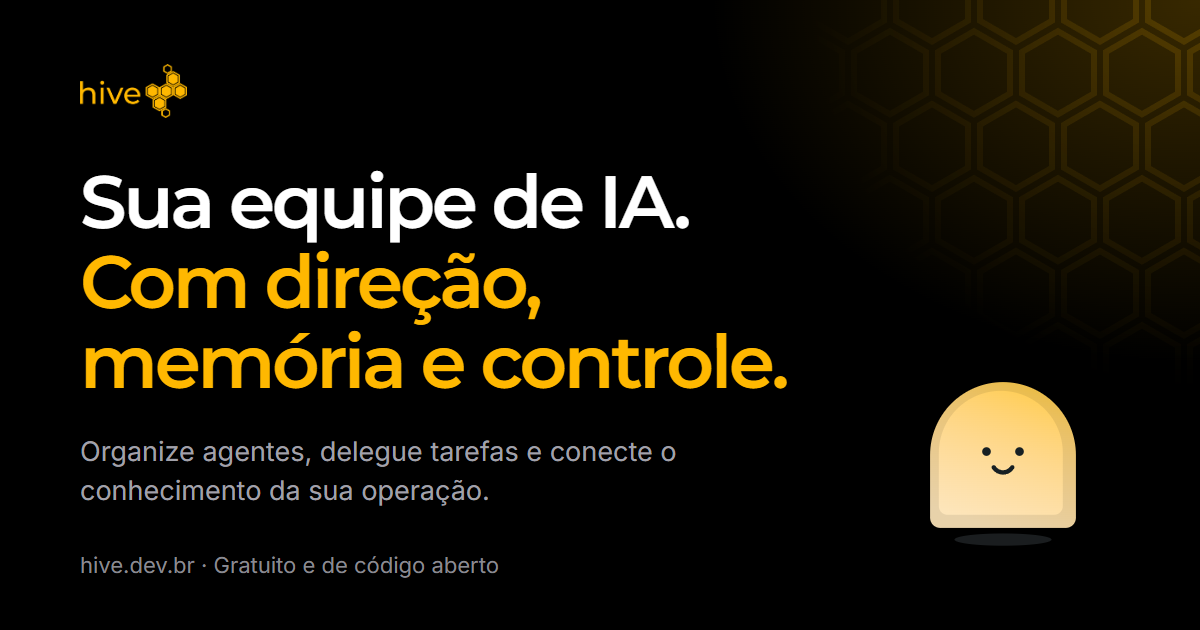
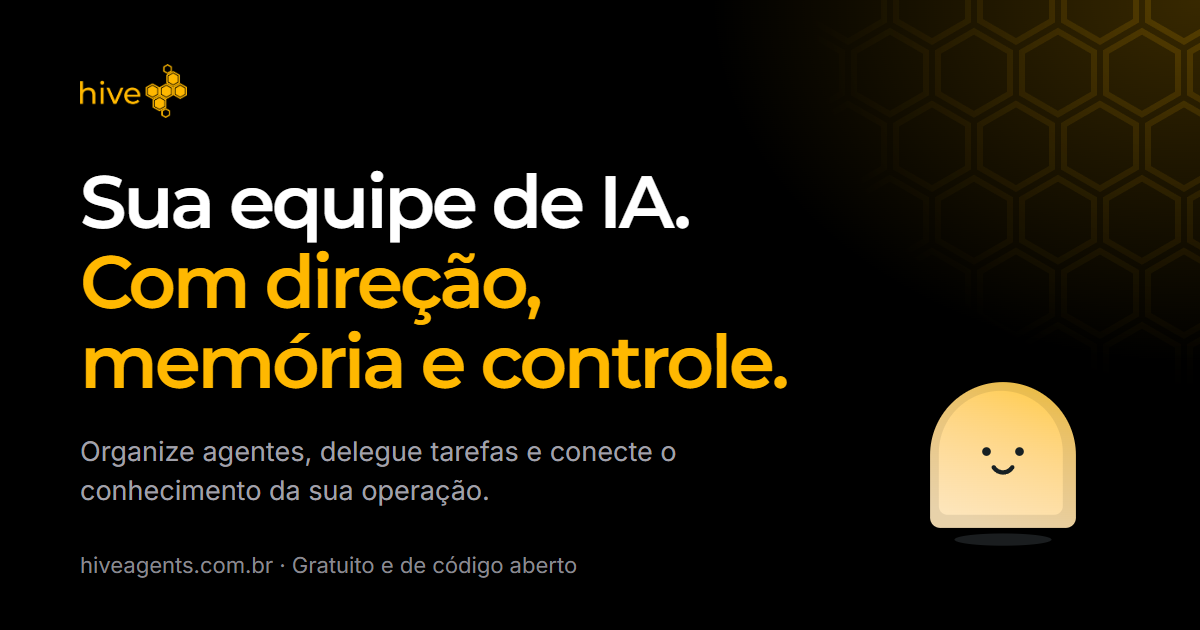
Ajuste botão whatsapp na navbar

Changed region(s): [[0.0925, 0.8746, 0.4933, 0.9349]]

diff --git a/components/whatsapp-button.tsx b/components/whatsapp-button.tsx
@@ -7,14 +7,17 @@ export const WHATSAPP_URL = "https://chat.whatsapp.com/LHrZ5vK090F1FmcyivB0dz";
  * Botão da comunidade no WhatsApp, para a barra de navegação.
  *
  * Em repouso é só o ícone, branco num círculo escuro (o branco precisa de um fundo para existir
- * no tema claro também). No hover ou no foco do teclado o círculo fica verde e abaixo dele
- * aparece "Entre na nossa comunidade", em branco como o ícone. O texto fica embaixo, e não
- * ao lado, para não cobrir os links da barra.
+ * no tema claro também). No hover ou no foco do teclado o botão cresce para a esquerda, na mesma
+ * linha do ícone, mostra "Entre na nossa comunidade" em branco e fica verde.
+ *
+ * Ele faz parte do fluxo da barra (não é sobreposto): a barra é uma grade de três colunas, e a
+ * coluna das ações cresce junto com o botão. Os links só se deslocam para a esquerda quando não
+ * há espaço sobrando, então nada fica coberto. Abaixo de `sm` ele não cresce: ali não há hover
+ * e a barra não tem espaço.
  *
  * O verde é `#0F8247`, um tom mais fechado que o #25D366 da marca: texto branco sobre #25D366
  * tem só 2:1 de contraste, e sobre este passa de 4,5:1. O nome acessível existe o tempo todo
- * (`aria-label`), então o leitor de tela e o toque no celular, que não têm hover, também
- * entendem o botão.
+ * (`aria-label`), então o leitor de tela e o toque no celular também entendem o botão.
  */
 export function WhatsAppButton({ className = "" }: { className?: string }) {
   return (
@@ -23,14 +26,16 @@ export function WhatsAppButton({ className = "" }: { className?: string }) {
       target="_blank"
       rel="noopener noreferrer"
       aria-label="Entre na nossa comunidade no WhatsApp (abre em uma nova aba)"
-      className={`group relative inline-flex size-11 shrink-0 items-center justify-center rounded-full bg-[#171717] text-white [box-shadow:inset_0_0_0_1px_rgb(255_255_255/0.16)] transition-[background-color,box-shadow] duration-200 hover:bg-[#0F8247] hover:[box-shadow:none] focus-visible:bg-[#0F8247] focus-visible:[box-shadow:none] motion-reduce:transition-none ${className}`}
+      className={`group inline-flex h-11 w-11 shrink-0 items-center justify-end overflow-hidden rounded-full bg-[#171717] text-white [box-shadow:inset_0_0_0_1px_rgb(255_255_255/0.16)] transition-[width,background-color,box-shadow] duration-300 ease-[var(--ease-out)] hover:bg-[#0F8247] hover:[box-shadow:none] focus-visible:bg-[#0F8247] focus-visible:[box-shadow:none] sm:hover:w-[244px] sm:focus-visible:w-[244px] motion-reduce:transition-none ${className}`}
     >
-      <BrandIcon name="whatsapp" className="size-[22px] text-white" />
       <span
         aria-hidden="true"
-        className="pointer-events-none absolute top-full right-0 z-10 mt-2 translate-y-1 rounded-full bg-[#0F8247] px-3.5 py-2 text-sm font-semibold whitespace-nowrap text-white opacity-0 shadow-[0_8px_24px_rgb(0_0_0/0.18)] transition-[opacity,transform] duration-200 ease-[var(--ease-out)] group-hover:translate-y-0 group-hover:opacity-100 group-focus-visible:translate-y-0 group-focus-visible:opacity-100 motion-reduce:transition-none"
+        className="hidden pr-1 pl-4 text-sm font-semibold whitespace-nowrap text-white opacity-0 transition-opacity duration-200 group-hover:opacity-100 group-focus-visible:opacity-100 sm:block motion-reduce:transition-none"
       >
         Entre na nossa comunidade
+      </span>
+      <span className="flex size-11 shrink-0 items-center justify-center">
+        <BrandIcon name="whatsapp" className="size-[22px] text-white" />
       </span>
     </a>
   );

diff --git a/tests/seo-legal.test.ts b/tests/seo-legal.test.ts
@@ -78,7 +78,7 @@ test("SEO: robots, sitemap e llms.txt existem e são coerentes", () => {
   assert.match(read("app/robots.ts"), /sitemap\.xml/);
   const llms = read("public/llms.txt");
   assert.match(llms, /^# Hive/);
-  for (const page of PAGES.filter((p) => p.path !== "/")) assert.ok(llms.includes(`https://hive.dev.br${page.path}`), `llms.txt não cita ${page.path}`);
+  for (const page of PAGES.filter((p) => p.path !== "/")) assert.ok(llms.includes(`https://hiveagents.com.br${page.path}`), `llms.txt não cita ${page.path}`);
 });
 
 // ------------------------------------------------------------------------------------- textos

diff --git a/lib/legal.ts b/lib/legal.ts
@@ -26,10 +26,10 @@ export const LEGAL = {
   /** Encarregado pelo tratamento de dados (art. 41 da LGPD). */
   encarregado: {
     nome: PENDENTE,
-    email: "contato@hive.dev.br",
+    email: "contato@hiveagents.com.br",
   },
   /** E-mail de contato geral, o mesmo que já aparece no site. */
-  email: "contato@hive.dev.br",
+  email: "contato@hiveagents.com.br",
   /** Comarca para disputas que não envolvam consumidor. */
   foro: PENDENTE,
   /** Provedor de hospedagem do site (operador que guarda os registros de acesso). */

diff --git a/app/api/lgpd/route.ts b/app/api/lgpd/route.ts
@@ -58,7 +58,7 @@ export async function POST(request: Request) {
     if (process.env.NODE_ENV === "production") {
       console.error("[lgpd] LGPD_WEBHOOK_URL não está definida: o pedido NÃO foi recebido.");
       return NextResponse.json(
-        { error: "O envio está indisponível agora. Escreva para contato@hive.dev.br, por favor." },
+        { error: "O envio está indisponível agora. Escreva para contato@hiveagents.com.br, por favor." },
         { status: 503 },
       );
     }

diff --git a/components/sections.tsx b/components/sections.tsx
@@ -13,8 +13,8 @@ export function Faq() {
             lead={
               <>
                 Não achou a sua? Escreva para{" "}
-                <a className="text-accent underline underline-offset-4" href="mailto:contato@hive.dev.br">
-                  contato@hive.dev.br
+                <a className="text-accent underline underline-offset-4" href="mailto:contato@hiveagents.com.br">
+                  contato@hiveagents.com.br
                 </a>
                 .
               </>

diff --git a/app/install/page.tsx b/app/install/page.tsx
@@ -549,7 +549,7 @@ pnpm dev`} />
                 </div>
                 <p className={body}>
                   Não achou o seu caso? <A href={`${REPO_URL}/issues`}>Abra uma issue</A> ou escreva para{" "}
-                  <A href="mailto:contato@hive.dev.br">contato@hive.dev.br</A>.
+                  <A href="mailto:contato@hiveagents.com.br">contato@hiveagents.com.br</A>.
                 </p>
               </section>
             </article>

diff --git a/lib/seo.ts b/lib/seo.ts
@@ -10,7 +10,7 @@ import { FAQ } from "./faq.ts";
 import { LEGAL } from "./legal.ts";
 
 /** Endereço público do site. É a base das URLs de Open Graph, do sitemap e do JSON-LD. */
-export const SITE_URL = "https://hive.dev.br";
+export const SITE_URL = "https://hiveagents.com.br";
 export const SITE_NAME = "Hive";
 export const REPO_URL = "https://github.com/gugow06/hive";
 

diff --git a/README.md b/README.md
@@ -419,8 +419,8 @@ Pillow (`pip install pillow`).
 
 ## Antes de publicar
 
-- `metadataBase` em `app/layout.tsx` está em `https://hive.dev.br` — troque pelo
-  domínio real; ele é a base das URLs de Open Graph.
-- O e-mail `contato@hive.dev.br` aparece no FAQ e nas páginas legais.
+- O domínio é `hiveagents.com.br`, definido em `SITE_URL` (`lib/seo.ts`). Ele é a base das
+  URLs de Open Graph, do sitemap e do JSON-LD. Se mudar, troque também `public/llms.txt`.
+- O e-mail `contato@hiveagents.com.br` aparece no FAQ e nas páginas legais.
 - Preencha `lib/legal.ts` e defina `LGPD_WEBHOOK_URL`.
 - `app/opengraph-image.png` é a imagem de compartilhamento (1200×630).

diff --git a/.agents/product-marketing.md b/.agents/product-marketing.md
@@ -84,7 +84,7 @@
 ## 10. Lacunas
 
 - [ ] Razão social, CNPJ, endereço e e-mail do encarregado (LGPD): `lib/legal.ts`.
-- [ ] Domínio definitivo (hoje `hive.dev.br` em `metadataBase`).
+- [ ] Domínio definitivo: `hiveagents.com.br` (definido em `lib/seo.ts`).
 - [ ] Depoimentos reais e logos de quem usa.
 - [ ] Relação exata com Oracle e FIAP (hoje só "Parceiros").
 - [ ] Decisão sobre a telemetria padrão do produto (hoje ligada, envia ao projeto original).
